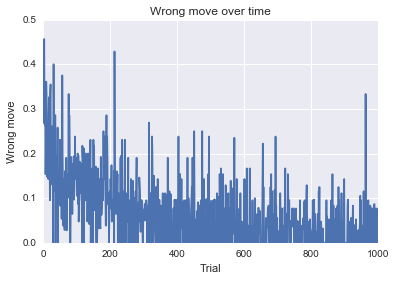
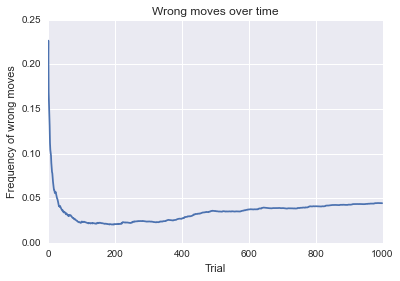
Great improvement on learning time

diff --git a/P4/smartcab/agent.py b/P4/smartcab/agent.py
@@ -3,6 +3,7 @@ from planner import RoutePlanner
 from simulator import Simulator
 import random
 import math
+import numpy as np
 
 
 class QTable(object):
@@ -68,23 +69,23 @@ class QState(object):
 
 class State(object):
     """docstring for State"""
-    def __init__(self, next_waypoint, light, oncoming, left, right, deadline):
+    def __init__(self, next_waypoint, light, oncoming, right, left, deadline):
         super(State, self).__init__()
         self.next_waypoint = next_waypoint
         self.light = light
         self.oncoming = oncoming
-        self.left = left
         self.right = right
-        self.deadline = deadline
+        self.left = None
+        self.deadline = None
 
     def __repr__(self):
-        string = "State: next_waypoint = {}, light = {}, oncoming = {}, left = {}, right = {}, deadline = {}"
+        string = "State: next_waypoint = {}, light = {}, oncoming = {}, right = {}, left = {}, deadline = {}"
         string = string.format(
             self.next_waypoint,
             self.light,
             self.oncoming,
-            self.left,
             self.right,
+            self.left,
             self.deadline)
         return string
 
@@ -95,8 +96,8 @@ class State(object):
         equal &= self.next_waypoint == other.next_waypoint
         equal &= self.light == other.light
         equal &= self.oncoming == other.oncoming
-        equal &= self.left == other.left
         equal &= self.right == other.right
+        equal &= self.left == other.left
         equal &= self.deadline == other.deadline
         return equal
 
@@ -128,14 +129,34 @@ class LearningAgent(Agent):
         self.gamma = 0.8
         self.qtable = QTable()
 
+        self.rewards = []
+        self.moves = 0.
+        self.bad_moves = 0.
+        self.completed = []
+        self.runs = 0
+
     def reset(self, destination=None):
         self.planner.route_to(destination)
         # TODO: Prepare for a new trip; reset any variables here, if required
+        try:
+            self.rewards.append(self.bad_moves/(self.moves))
+        except:
+            self.rewards.append(0)
+
+        # import pdb
+        # pdb.set_trace()
+        if self.runs != len(self.completed):
+            self.completed.append(0)
+        self.runs += 1
+
+        print(self.rewards)
+        print(self.completed)
 
     def update(self, t):
         # Gather inputs
         self.next_waypoint = self.planner.next_waypoint()  # from route planner, also displayed by simulator
         inputs = self.env.sense(self)
+
         deadline = self.env.get_deadline(self)
 
         # TODO: Update state
@@ -156,12 +177,21 @@ class LearningAgent(Agent):
 
         # Execute action and get reward
         reward = self.env.act(self, action.action)
+        if reward < 0:
+            self.bad_moves += 1
+        self.moves += 1
+
+        if self.env.done:
+            self.completed.append(1)
+
 
         # TODO: Learn policy based on state, action, reward
+        new_inputs = self.env.sense(self)
+
         state_prime = State(
             self.planner.next_waypoint(),
             deadline=deadline,
-            **self.env.sense(self)
+            **new_inputs
             )
         qstate_prime = self.qtable[state_prime]
         self.state = state_prime
@@ -185,7 +215,7 @@ def run():
 
     # Now simulate it
     sim = Simulator(e, update_delay=0.0001)  # reduce update_delay to speed up simulation
-    sim.run(n_trials=100)  # press Esc or close pygame window to quit
+    sim.run(n_trials=1000)  # press Esc or close pygame window to quit
 
 
 if __name__ == '__main__':
